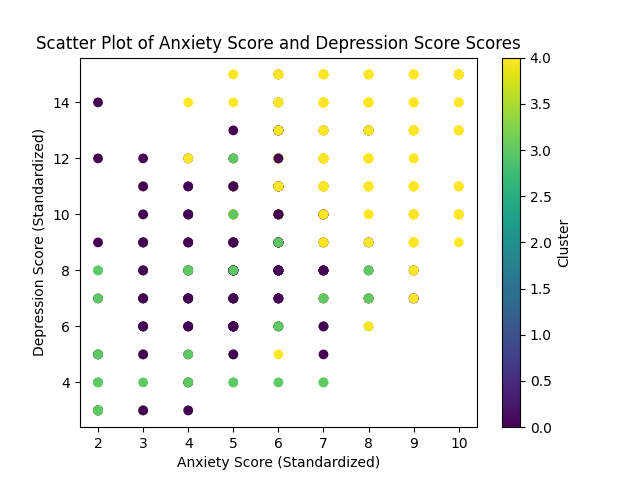
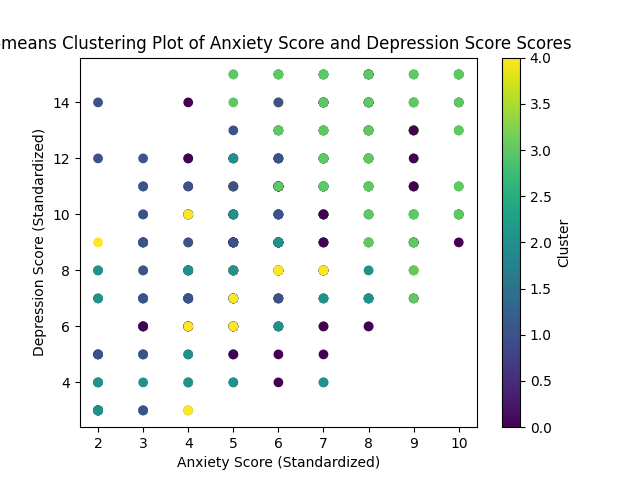
plots

diff --git a/pyspark/graph.py b/pyspark/graph.py
@@ -2,8 +2,65 @@ from typing import List
 from matplotlib import pyplot as plt
 import pandas as pd
 import seaborn as sns
+from dowhy import CausalModel
+import networkx as nx
+import matplotlib.pyplot as plt
+from pgmpy.models import BayesianModel
+from pgmpy.estimators import BayesianEstimator
+from pgmpy.estimators import HillClimbSearch, BicScore
 
 IMAGES_DIR = './Images'
+
+
+def causal_ineference(clustered_data):
+    df = clustered_data.toPandas()
+    model = CausalModel(
+        data=df,
+        treatment='Total Score',
+        outcome='Hours Per Day',
+        common_causes=['ADHD Score', 'Anxiety Score',
+                       'Self Esteem Score', 'Depression Score']
+    )
+
+    # Identify causal effect
+    identified_estimand = model.identify_effect()
+
+    # Estimate causal effect
+    estimate = model.estimate_effect(identified_estimand,
+                                     method_name="backdoor.linear_regression")
+
+    print(estimate)
+    # Instantiate a HillClimbSearch object with the data
+    hc = HillClimbSearch(df)
+
+    # Use Hill climbing to learn the structure of the Bayesian Network
+    best_model_structure = hc.estimate(scoring_method=BicScore(df))
+
+    # Instantiate a BayesianModel with the learned structure
+    best_model = BayesianModel(best_model_structure.edges())
+
+    # Fit the model to the data using Bayesian parameter estimation
+    best_model.fit(df, estimator=BayesianEstimator)
+
+    # Print the learned graph structure
+    print("Learned Causal Graph Structure:")
+    print(best_model_structure.edges())
+
+    # Create a directed graph
+    G = nx.DiGraph()
+
+    # Add edges from the learned model structure
+    G.add_edges_from(best_model_structure.edges())
+
+    # Draw the graph
+    pos = nx.spring_layout(G)  # positions for all nodes
+    nx.draw(G, pos, with_labels=True, node_size=700, node_color="skyblue",
+            font_size=10, font_weight="bold", arrows=True)
+    plt.title("Learned Causal Graph Structure")
+    plt.figure(figsize=(70, 50))  # Adjust width and height as needed
+
+    # Show plot
+    plt.savefig(f'{IMAGES_DIR}/causal_inference.png')
 
 
 def generate_heatmap(df):
@@ -48,12 +105,6 @@ def plot_silhouette_score(silhouette_scores, initial_k, K):
 
 def plot_kmeans_clusters(clustered_data):
     clustered_data_pd = clustered_data.toPandas()
-    # plt.scatter(clustered_data_pd[:, 0], clustered_data_pd[:,
-    #             1], c=clustered_data_pd["cluster"], cmap='viridis')
-    # plt.title("K-means Clustering with PySpark MLlib")
-    # plt.colorbar().set_label("Cluster")
-    # plt.savefig('result.png')  # Save the plot as an image
-
     features = ['Anxiety Score', 'Self Esteem Score',
                 'Depression Score', 'ADHD Score']
 

diff --git a/pyspark/spark_standalone.py b/pyspark/spark_standalone.py
@@ -7,7 +7,7 @@ from model import *
 
 DATASET_PATH = './Data/dataset.csv'
 INITIAL_K = 2
-K = 20
+K = 3
 
 if __name__ == '__main__':
     # Initialize SparkSession
@@ -21,7 +21,7 @@ if __name__ == '__main__':
     print("Dataset loaded.")
 
     processed_df = preprocess(spark=spark, df=df)
-
+    causal_ineference(processed_df)
     final_dataset = standardize_data(processed_df)
     print("finding the best k value for KMeans clustering...")
     best_k, silhouette_scores = find_k(final_dataset, INITIAL_K, K)

diff --git a/pyspark/model.py b/pyspark/model.py
@@ -2,6 +2,12 @@
 # Importing the model
 from pyspark.ml.clustering import KMeans
 from pyspark.ml.evaluation import ClusteringEvaluator
+from dowhy import CausalModel
+import networkx as nx
+import matplotlib.pyplot as plt
+from pgmpy.models import BayesianModel
+from pgmpy.estimators import BayesianEstimator
+from pgmpy.estimators import HillClimbSearch, BicScore
 
 
 def find_k(df, initial_k, K):

diff --git a/pyspark/data_preprocessing.py b/pyspark/data_preprocessing.py
@@ -147,7 +147,7 @@ def preprocess(spark, df):
 
     # Plot histograms directly from PySpark DataFrame
     df.toPandas().hist(figsize=(16, 12))
-    plt.savefig('data_dist_hist.png')  # Save the plot as an image
+    plt.savefig('./Images/data_dist_hist.png')  # Save the plot as an image
 
     print("Generating heatmap...")
     generate_heatmap(df=df)
